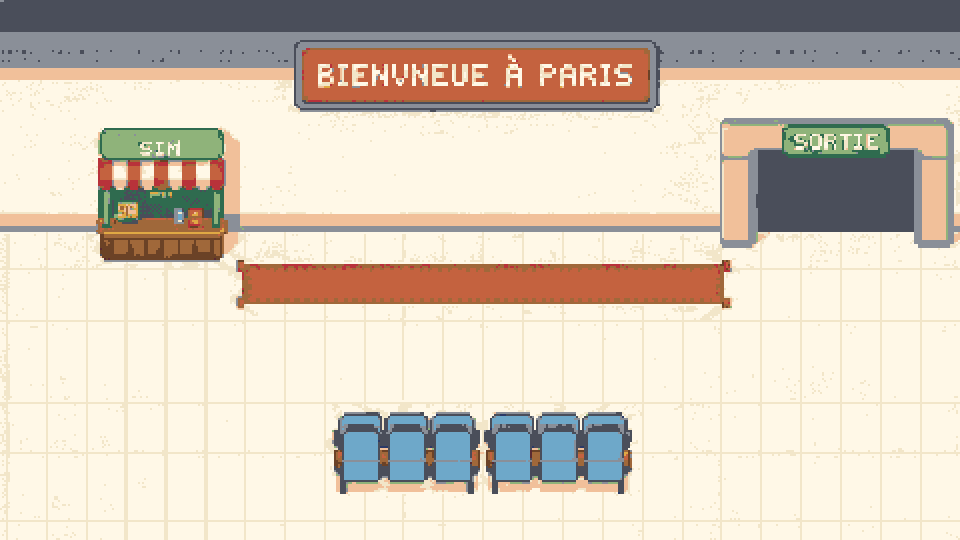
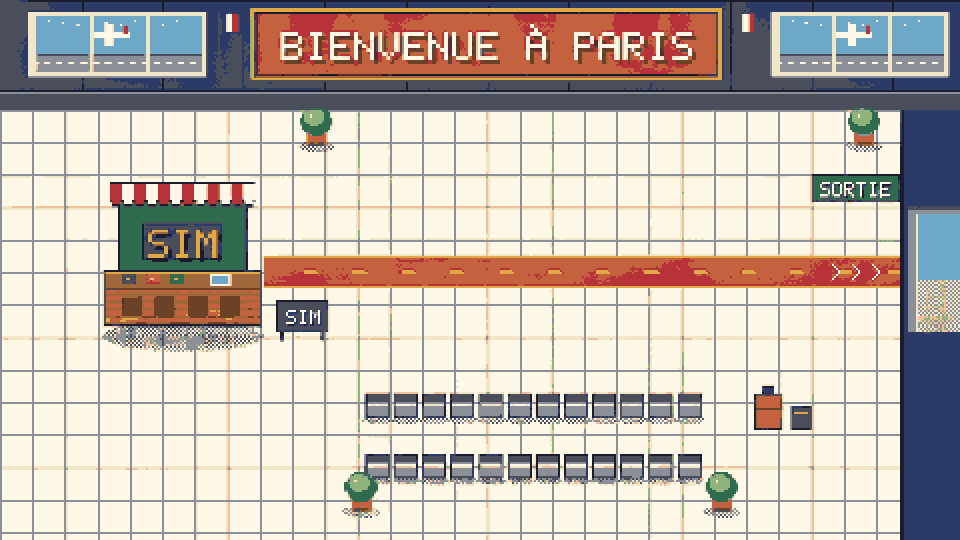
Contract: add npcs() test hook from the L3 game lane

diff --git a/scripts/assets/gen-gemini.ts b/scripts/assets/gen-gemini.ts
@@ -3,7 +3,7 @@
 // the STAGING dir art/gemini/ (never to apps/game/public/assets/; promote with
 // scripts/assets/promote-gemini.ts after a human has reviewed art/gemini/contact.png).
 //
-//   pnpm exec tsx scripts/assets/gen-gemini.ts [--only <key>[,<key>]] [--seed <n>] [--dry-run]
+//   pnpm exec tsx scripts/assets/gen-gemini.ts [--only <key>[,<key>]] [--seed <n>] [--ref] [--dry-run]
 //
 // Model: GEMINI_IMAGE_MODEL (default gemini-2.5-flash-image, via models.generateContent with IMAGE output).
 // An "imagen-*" model id switches to models.generateImages.
@@ -39,10 +39,11 @@ const SPRITE = 32;
 
 // ---- args ----------------------------------------------------------------------
 function parseArgs(argv: string[]) {
-  const out = { only: [] as string[], seed: undefined as number | undefined, dryRun: false };
+  const out = { only: [] as string[], seed: undefined as number | undefined, dryRun: false, ref: false };
   for (let i = 0; i < argv.length; i++) {
     const a = argv[i];
     if (a === "--dry-run") out.dryRun = true;
+    else if (a === "--ref") out.ref = true;
     else if (a === "--only") out.only.push(...(argv[++i] ?? "").split(",").filter(Boolean));
     else if (a === "--seed") {
       out.seed = Number(argv[++i]);
@@ -58,7 +59,7 @@ interface ImageClient {
   models: {
     generateContent(p: {
       model: string;
-      contents: string;
+      contents: string | { role: string; parts: InlinePart[] }[];
       config: { responseModalities: string[]; imageConfig: { aspectRatio: string }; seed?: number };
     }): Promise<{ candidates?: { content?: { parts?: InlinePart[] }; finishReason?: string }[]; text?: string }>;
     generateImages(p: {
@@ -75,7 +76,29 @@ function imageClient(apiKey: string): ImageClient {
   return new GoogleGenAI({ apiKey });
 }
 
-async function generate(ai: ImageClient, model: string, a: AssetPrompt, seed: number | undefined): Promise<Buffer> {
+/** Exact sign text per background: image models misspell signs unless told every word. */
+const SIGNS: Record<string, string[]> = {
+  airport_bg: ["BIENVENUE À PARIS", "SIM", "SORTIE"],
+  street_bg: ["CAFÉ", "BOULANGERIE", "MARCHÉ", "HOSTEL", "< AÉROPORT"],
+  hostel_bg: ["RÉCEPTION", "< SORTIE"],
+};
+
+/**
+ * --ref: send the in-game background as a layout reference. The collision boxes and doors were traced
+ * from it, so the redraw must keep every object where it is.
+ */
+function refContents(a: AssetPrompt): { role: string; parts: InlinePart[] }[] {
+  const current = readFileSync(join(REPO, "apps/game/public/assets", `${a.key}.png`)).toString("base64");
+  const signs = (SIGNS[a.key] ?? []).map((t) => `"${t}"`).join(", ");
+  const text = `${a.prompt}
+
+LAYOUT REFERENCE: the attached image is the current game map. Players collide with the objects exactly where they are drawn in it.
+Repaint it in the style above, but keep the composition IDENTICAL: same straight top-down camera, same position, size and outline of every wall, counter, kiosk, building front, door, bench, seat, bed, table and plant. Do not add, remove, move or resize any solid object, and keep the open floor open. Richer detail, texture and lighting are welcome.
+Sign text must be spelled exactly, letter for letter, with accents: ${signs}. No other words or letters anywhere.`;
+  return [{ role: "user", parts: [{ inlineData: { mimeType: "image/png", data: current } }, { text }] }];
+}
+
+async function generate(ai: ImageClient, model: string, a: AssetPrompt, seed: number | undefined, ref = false): Promise<Buffer> {
   const aspectRatio = a.kind === "background" ? "16:9" : "1:1";
   if (model.startsWith("imagen")) {
     const res = await ai.models.generateImages({
@@ -89,7 +112,7 @@ async function generate(ai: ImageClient, model: string, a: AssetPrompt, seed: nu
   }
   const res = await ai.models.generateContent({
     model,
-    contents: a.prompt,
+    contents: ref && a.kind === "background" ? refContents(a) : a.prompt,
     config: { responseModalities: ["IMAGE"], imageConfig: { aspectRatio }, ...(seed !== undefined ? { seed } : {}) },
   });
   const cand = res.candidates?.[0];
@@ -212,7 +235,7 @@ async function main() {
       let lastErr: unknown;
       for (let attempt = 1; attempt <= 2 && !raw; attempt++) {
         try {
-          raw = await generate(ai, model, p, args.seed);
+          raw = await generate(ai, model, p, args.seed, args.ref);
         } catch (e) {
           lastErr = e;
           console.warn(`  ${p.key}: attempt ${attempt} failed: ${(e as Error).message}`);

diff --git a/docs/CONTRACT.md b/docs/CONTRACT.md
@@ -116,6 +116,7 @@ The game exposes `window.__backpack` in dev and test builds, so Playwright can d
   submitPhone(phone: string): Promise<void>; skipEvening(): Promise<void>;
   state(): PlayerState | null; enter(scene: string): void;
   doors(): { name: string; to: string; x: number; y: number }[];   // door triggers in the current scene
+  npcs(): { id: NpcId; x: number; y: number }[];                    // NPCs placed in the current scene (L3)
   ui(): { dialogue: string | null; phoneOpen: boolean; phoneFormOpen: boolean; messages: number;
           activeMission: string | null; backpack: string[]; marketUnlocked: boolean; skipEveningVisible: boolean } }
 ```
